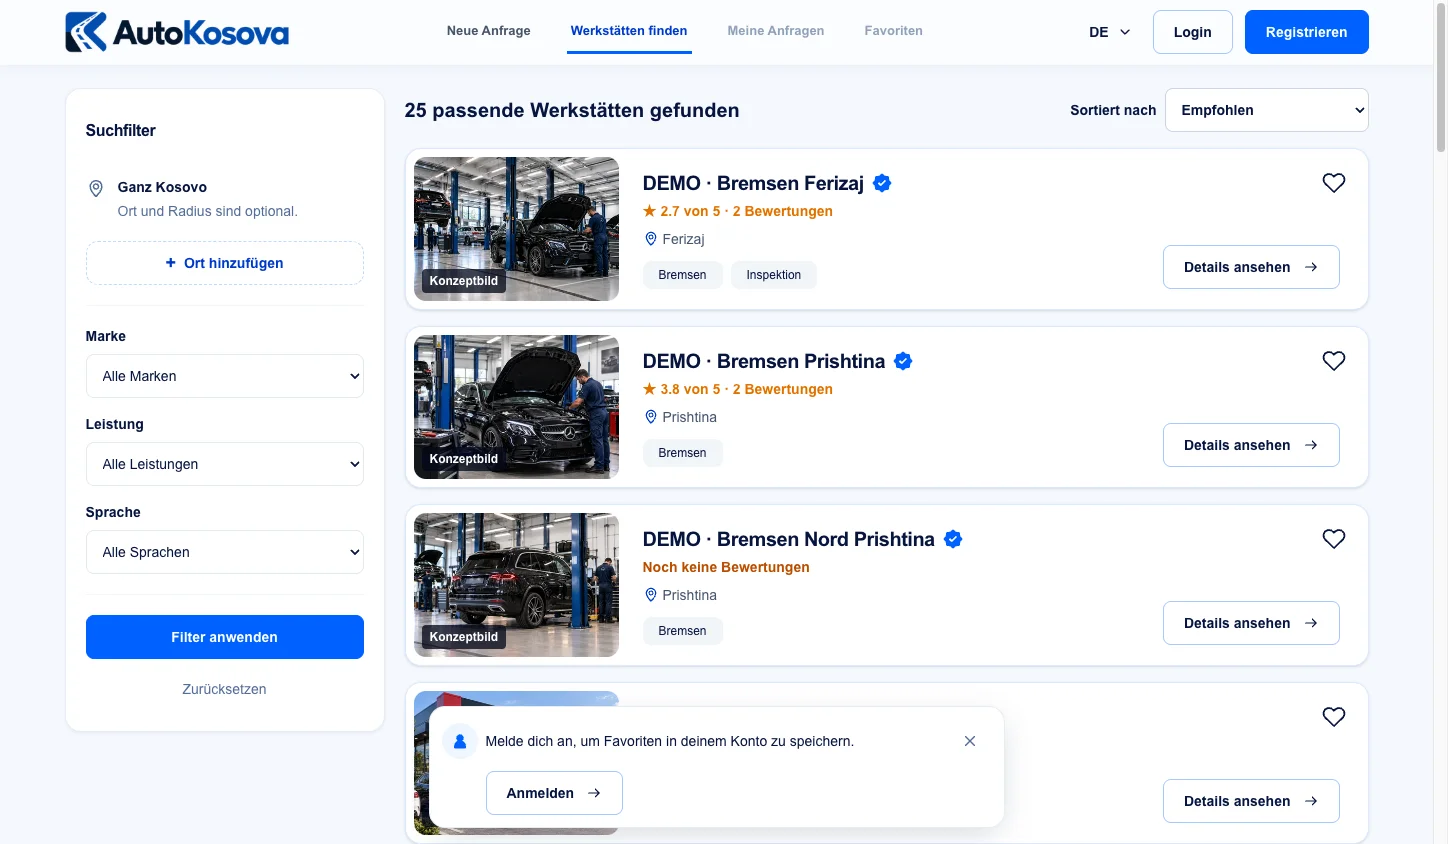
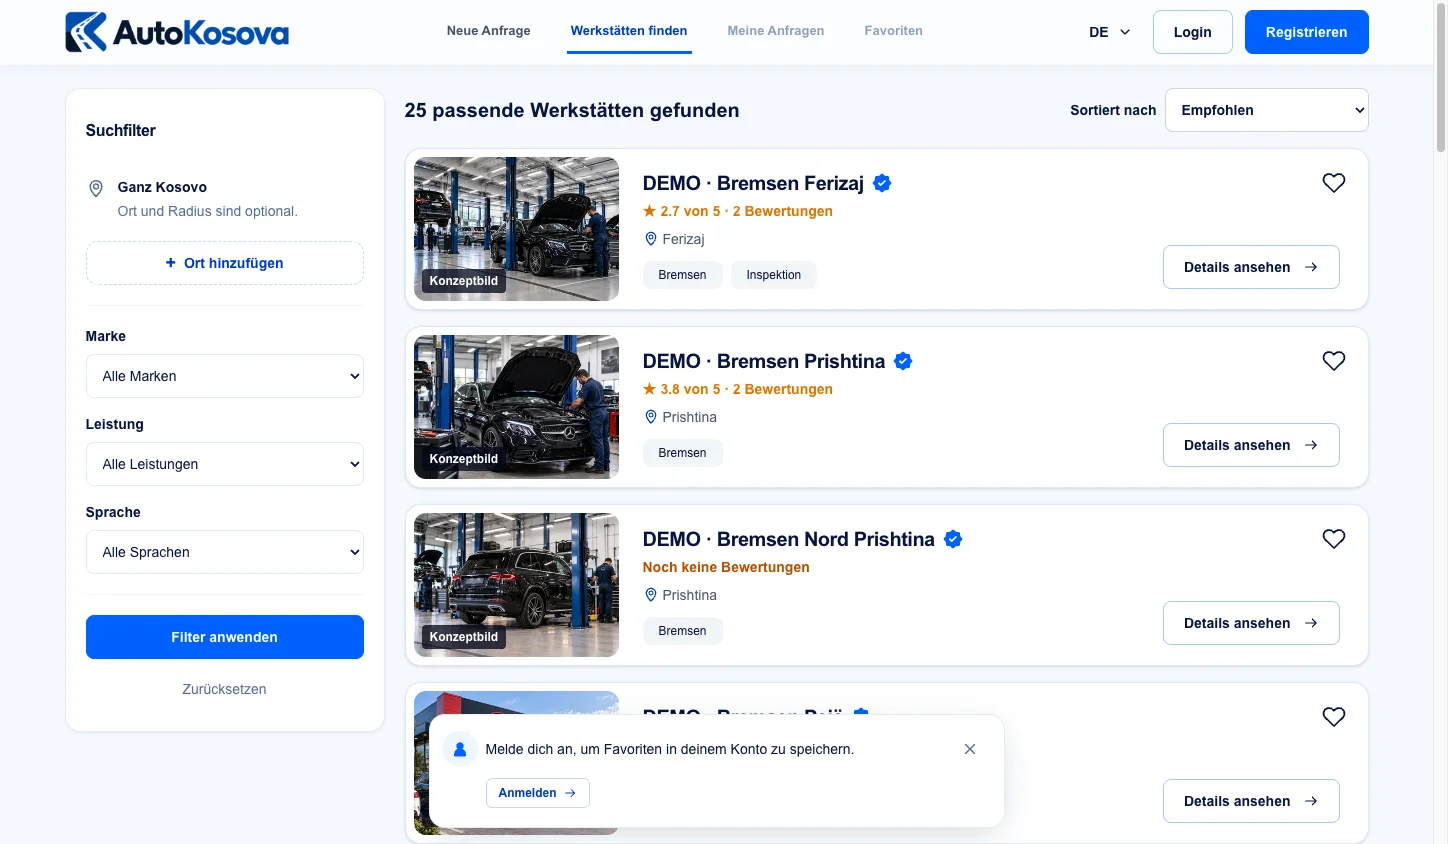
style: reduce favorite toast sign-in button size (#43)

Changed region(s): [[0.2797, 0.8318, 0.5905, 0.8934], [0.3419, 0.9242, 0.404, 0.955]]

diff --git a/src/app/search-handoff.component.ts b/src/app/search-handoff.component.ts
@@ -491,9 +491,16 @@ interface Area {
               {{ ui('favorites.' + message) }}
             </p>
             @if (message === 'signIn') {
-              <a [href]="favoriteLoginUrl()" appButton="outline" size="compact" class="mt-2"
-                >{{ ui('favorites.login') }}<app-icon name="arrow" class="size-4"
-              /></a>
+              <a
+                [href]="favoriteLoginUrl()"
+                class="group inline-flex min-h-11 items-center rounded-md focus-visible:outline-2 focus-visible:outline-offset-2 focus-visible:outline-brand"
+              >
+                <span
+                  class="inline-flex items-center gap-1.5 rounded-md border border-brand/25 px-3 py-1.5 text-xs font-semibold text-brand-dark transition-colors group-hover:bg-blue-50"
+                >
+                  {{ ui('favorites.login') }}<app-icon name="arrow" class="size-3.5" />
+                </span>
+              </a>
             }
           </div>
           <button
